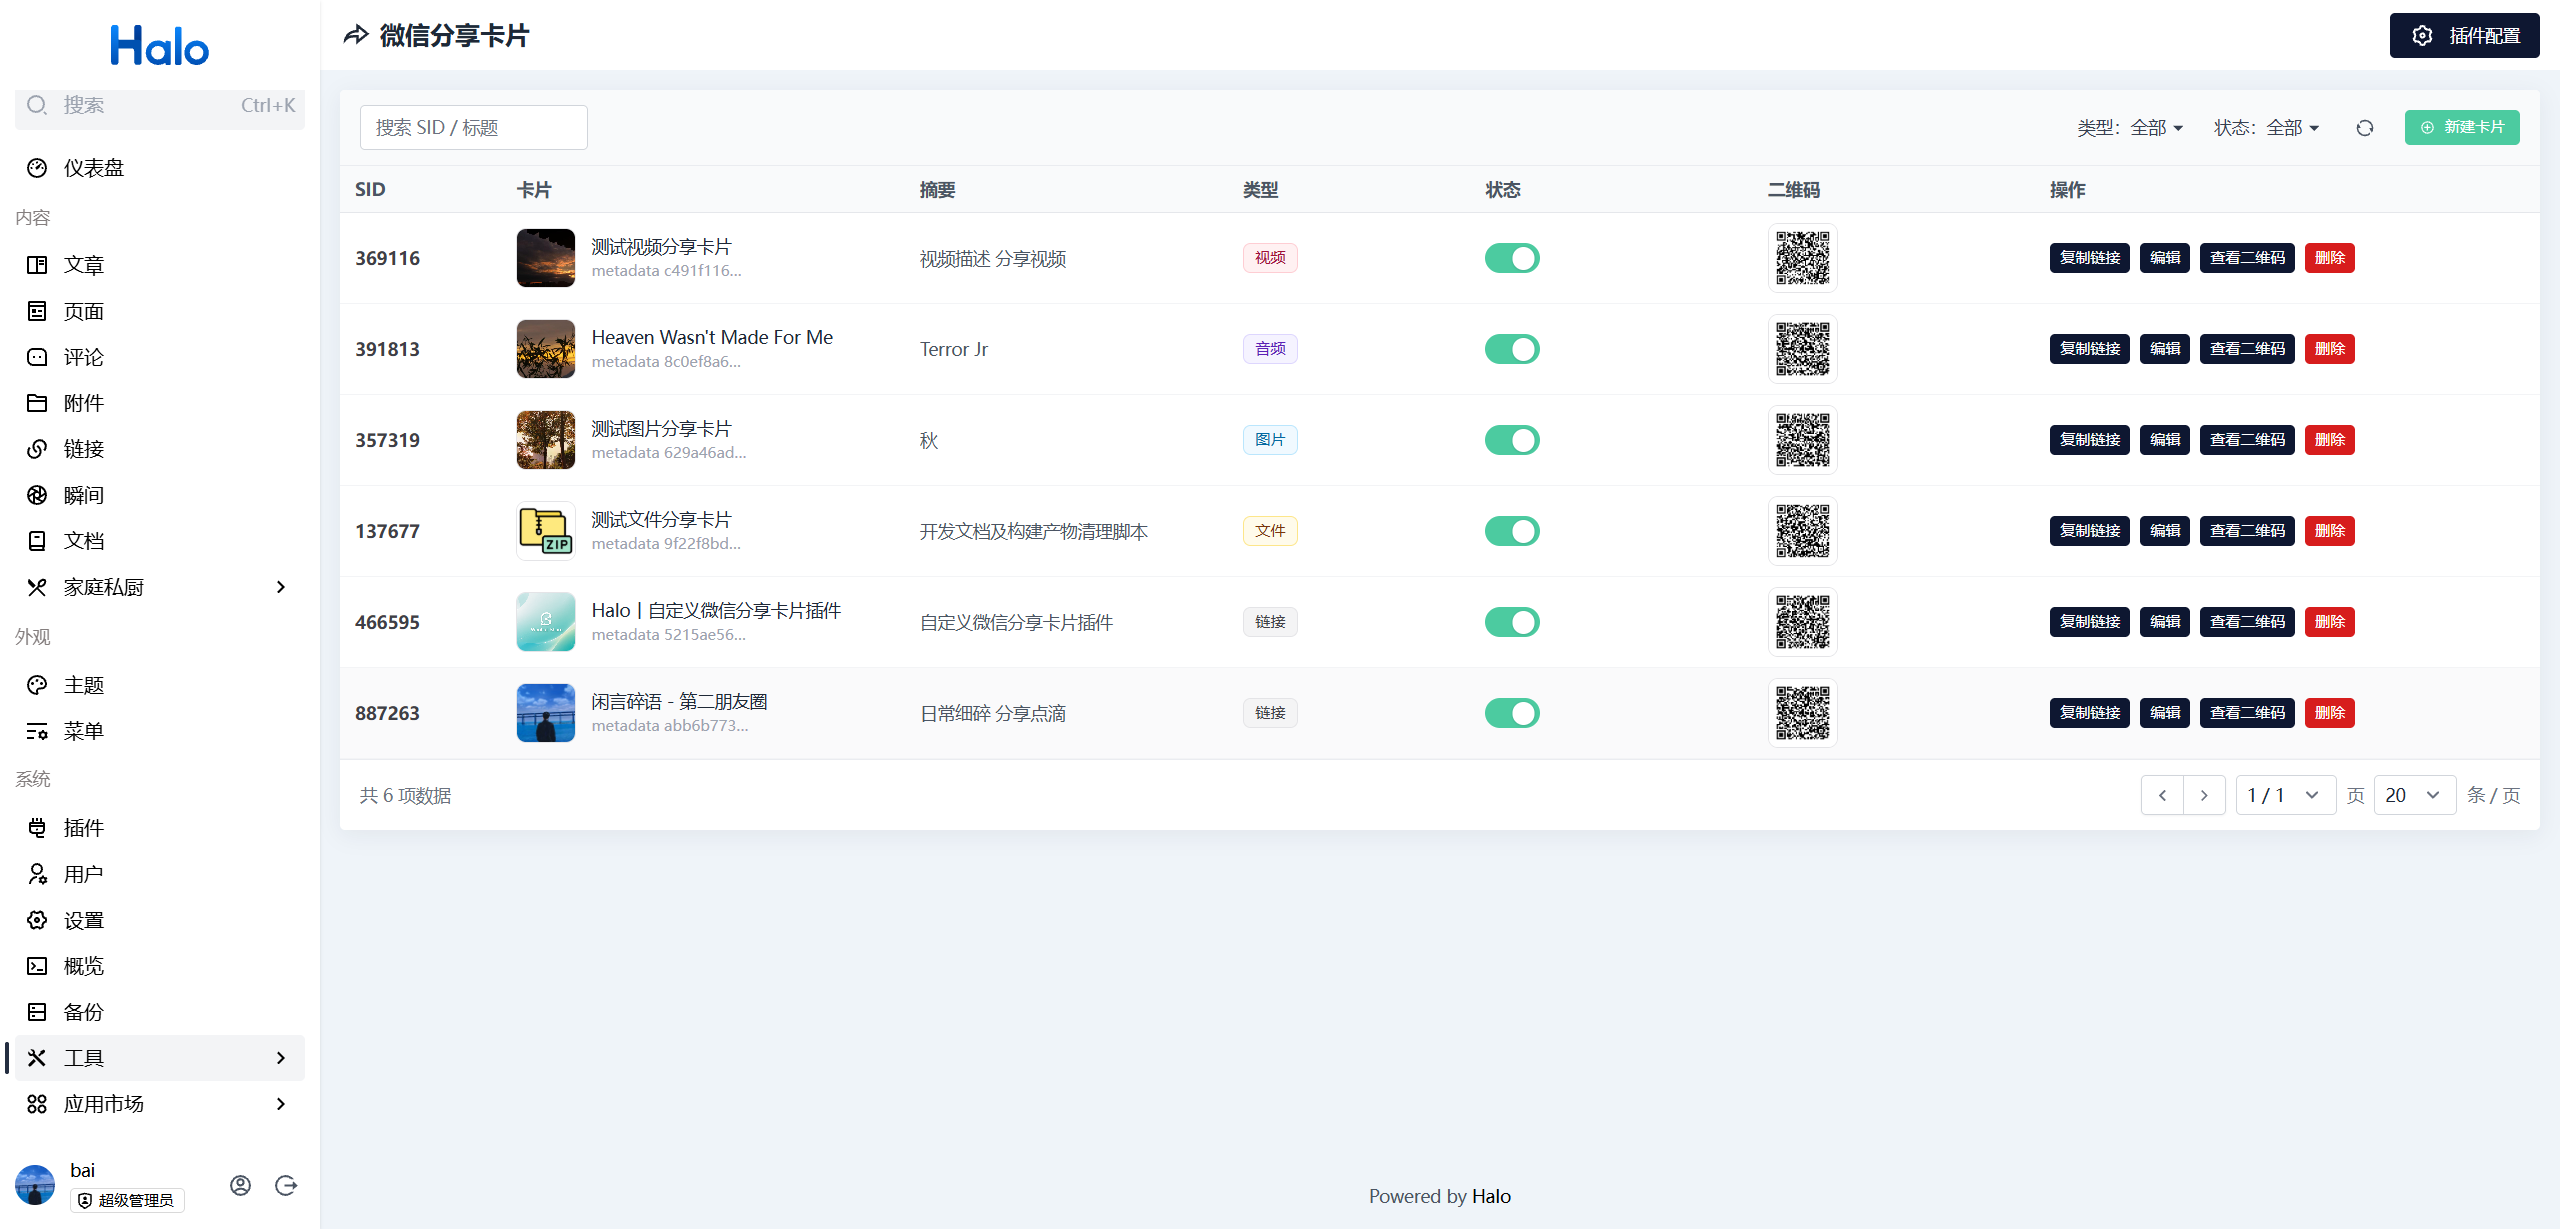
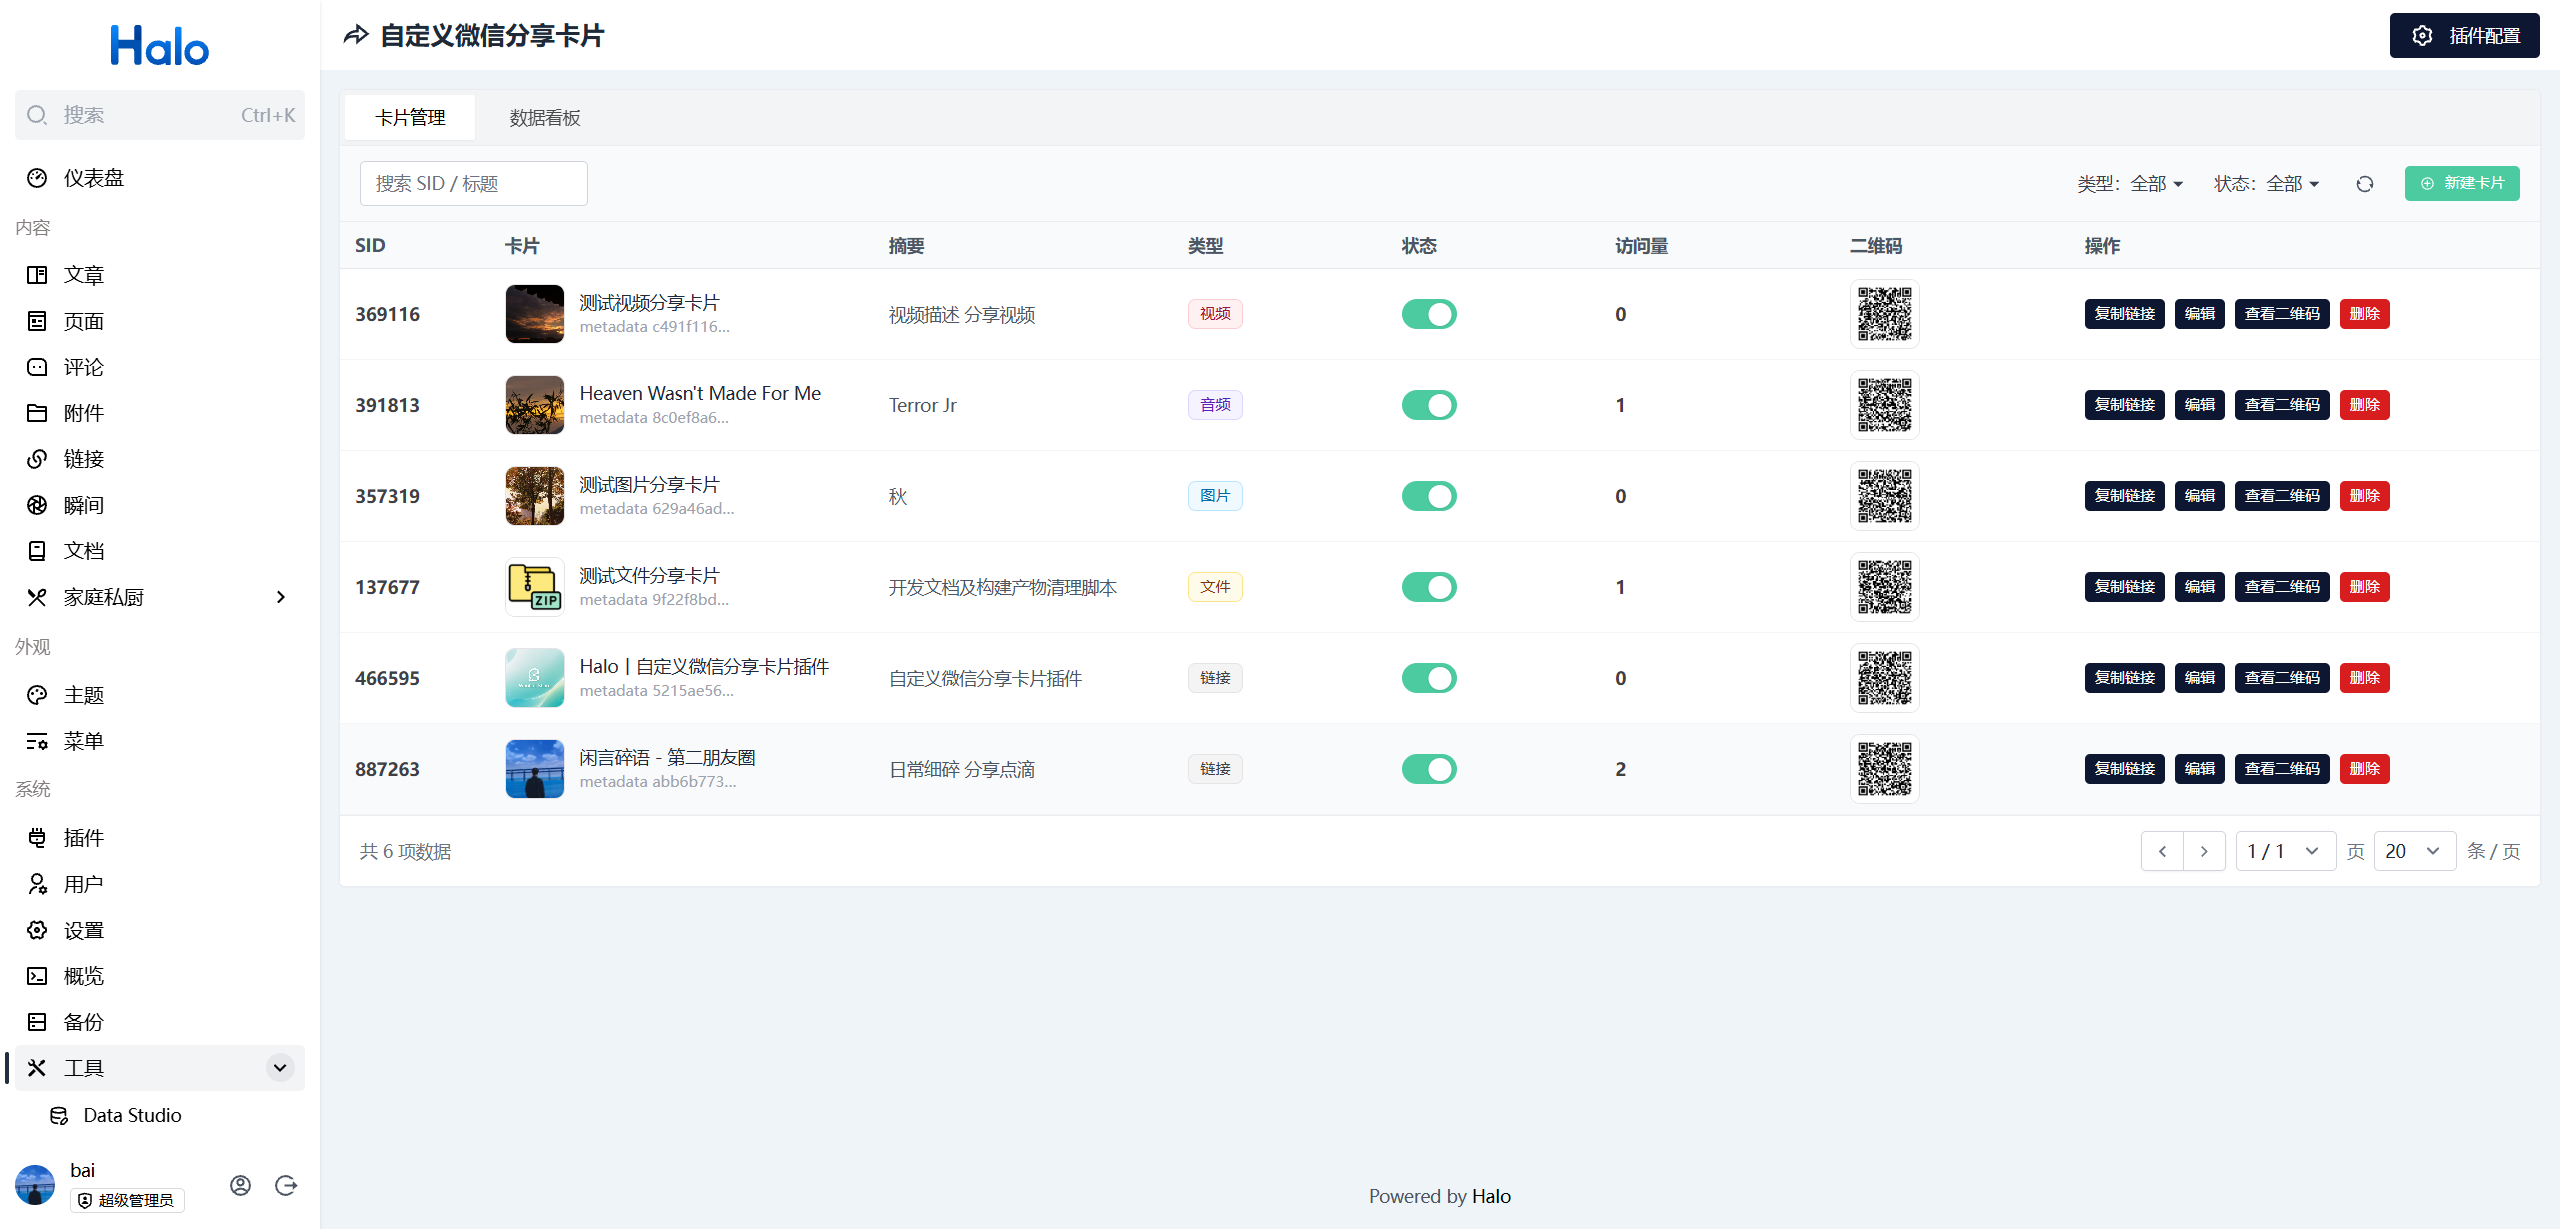
feat: 数据看板、IP 归属与 README 等更新

diff --git a/README.md b/README.md
@@ -116,9 +116,14 @@
 ### 控制台
 
 <div style="display:flex; gap:10px;">
-<img src="./images/admin-cards.png" alt="控制台-卡片管理" title="卡片管理" width="30%" />
-<img src="./images/admin-cards-edit.png" alt="控制台-插件配置" title="插件配置" width="30%" />
-<img src="./images/admin-settings.png" alt="控制台-插件配置" title="插件配置" width="30%" />
+<img src="./images/admin-cards.png" alt="控制台-卡片管理" title="卡片管理" width="48%" />
+<img src="./images/admin-cards-edit.png" alt="控制台-插件配置" title="插件配置" width="48%" />
+
+</div>
+
+<div style="display:flex; gap:10px;">
+<img src="./images/admin-dashboard.png" alt="控制台-插件配置" title="插件配置" width="48%" />
+<img src="./images/admin-settings.png" alt="控制台-插件配置" title="插件配置" width="48%" />
 
 </div>
 
